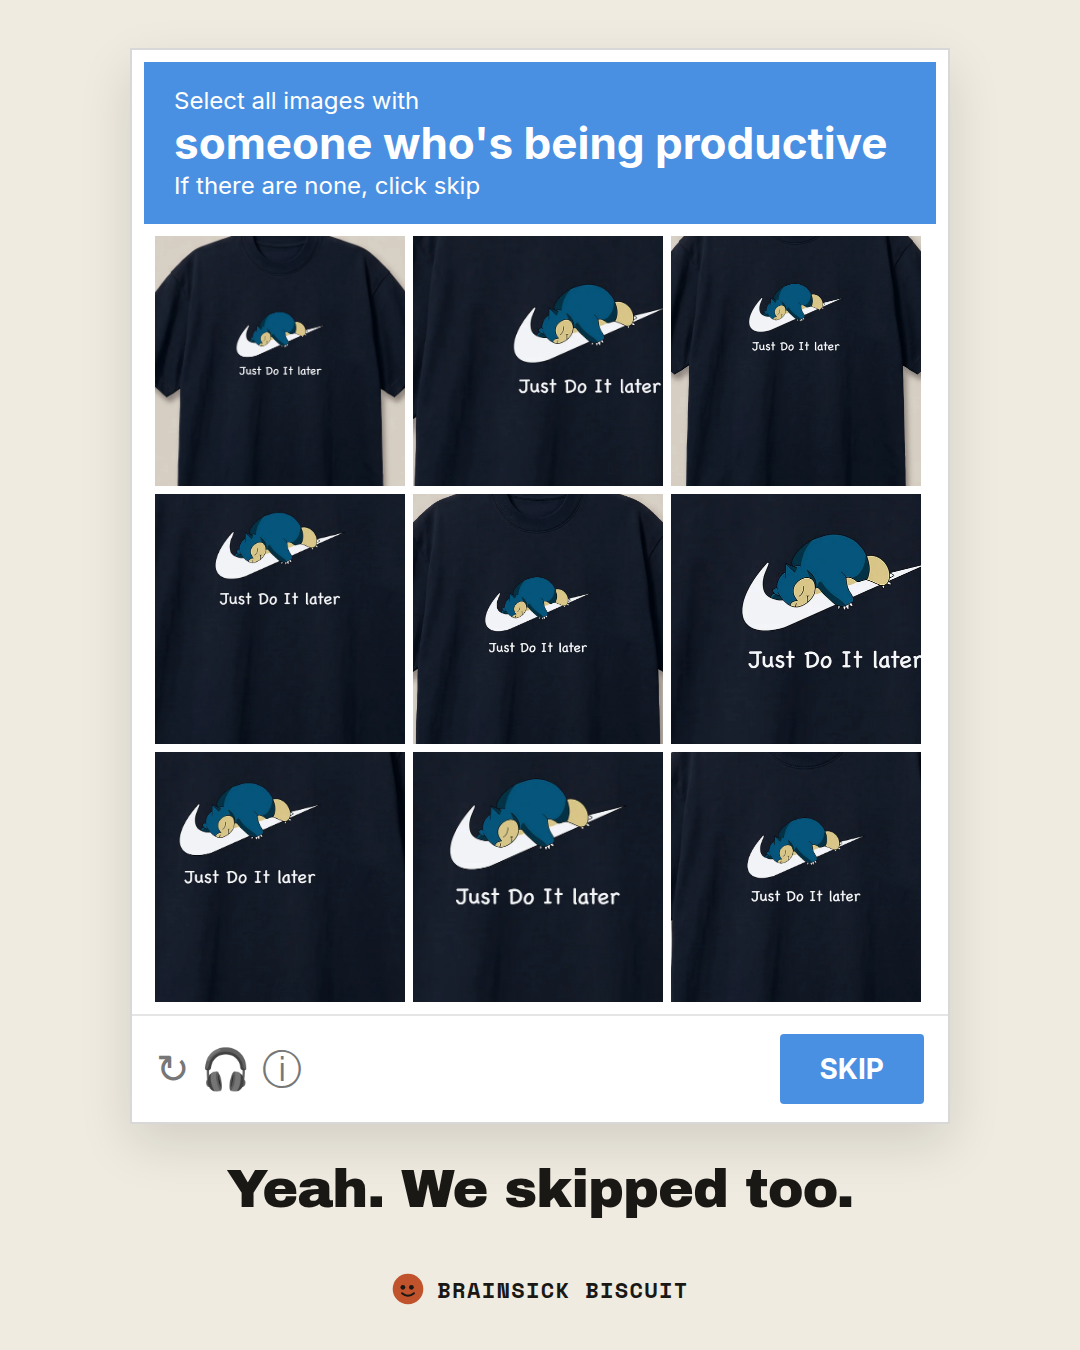
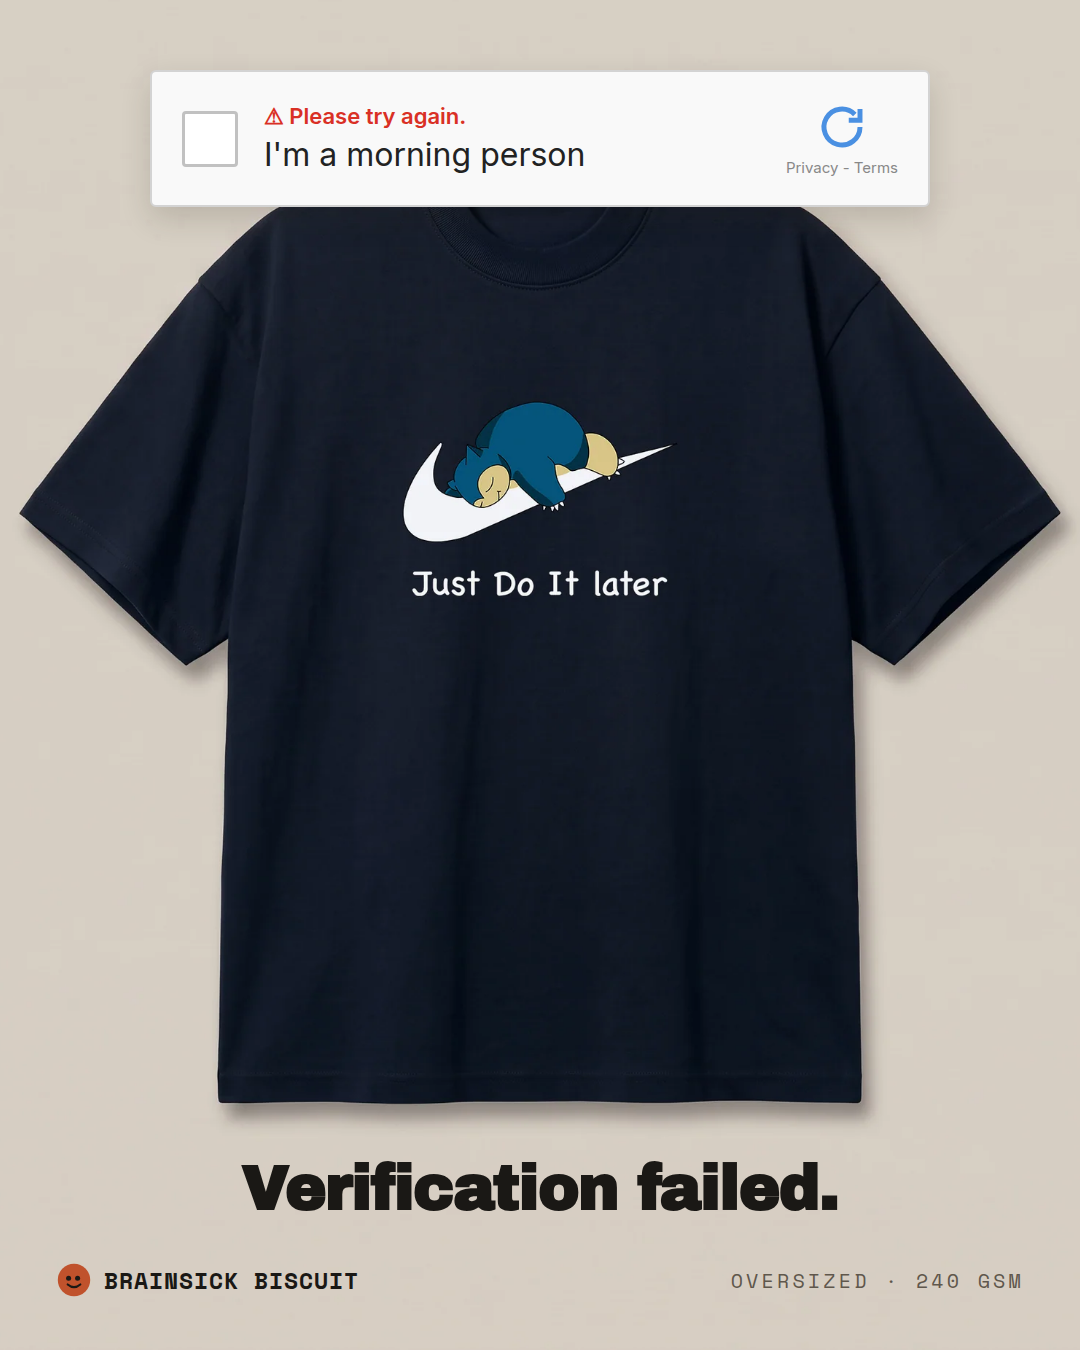
Rework new templates so the tee stays in focus
Replace lock screen and full-screen chat/captcha/dating layouts with tee-first versions: full uncovered tee, one small UI element above it, headline below. Add battery alert template.

Claude-Session: https://claude.ai/code/session_01WD2CyBmECwUA2EiUd3ooRo

diff --git a/meta-ads/template/gen3.py b/meta-ads/template/gen3.py
@@ -1,0 +1,110 @@
+"""Tee-first templates: the full tee stays large and uncovered; one small UI joke sits above it.
+
+Widgets: chat, captcha, battery, dating. Run: node render.js $(python3 gen3.py)
+"""
+from gen import TEES, LOGO, HEAD
+
+COPY = {
+    'courage': dict(
+        chat=dict(who='Manager', them='can you hop on a quick call?', me=None, headline='Every Monday, 9:01 AM.'),
+        captcha=dict(label="I'm not scared of Monday", headline='Verification failed.'),
+        battery=dict(title='Social Battery Low', body='5% remaining. Cancel all plans?', a='Dismiss', b='Cancel Plans',
+                     headline='Scared, but fashionable.'),
+        dating=dict(prompt='My most irrational fear', answer='“Can we talk?” with no context.', headline='Swipe right on fear.'),
+    ),
+    'snorlax': dict(
+        chat=dict(who='Mom', them='beta gym gaya aaj?', me='on my way 🏃', headline='(He was not on his way.)'),
+        captcha=dict(label="I'm a morning person", headline='Verification failed.'),
+        battery=dict(title='Motivation Low', body='2% remaining. Take a nap?', a='Later', b='Nap',
+                     headline='Just do it later.'),
+        dating=dict(prompt='My love language', answer='Cancelling plans so we can both nap.', headline='Swipe right. Eventually.'),
+    ),
+    'anxiety': dict(
+        chat=dict(who='Boss', them='we need to talk tomorrow', me=None, headline='Same-day anxiety.'),
+        captcha=dict(label="I'm totally calm", headline='Verification failed.'),
+        battery=dict(title='Peace of Mind Low', body='1% remaining. Overthink instead?', a='Not Now', b='Overthink',
+                     headline='Delivered daily.'),
+        dating=dict(prompt='I go crazy for', answer='Rereading a text 14 times before sending.', headline='Swipe right. Then panic.'),
+    ),
+}
+
+
+def frame(t, widget_css, widget_html, headline):
+    return HEAD + f'''
+.ad{{width:1080px;height:1350px;background:{t['bg']}}}
+.bg{{position:absolute;inset:0;background:url({t['img']}) 50% 100%/108% no-repeat}}
+.w{{position:absolute;left:150px;right:150px;top:70px;font-family:Inter,sans-serif}}
+{widget_css}
+h1{{position:absolute;left:56px;right:56px;bottom:130px;text-align:center;font-family:var(--display);color:var(--ink);font-size:62px;line-height:1.02;letter-spacing:-.02em}}
+.foot{{position:absolute;left:56px;right:56px;bottom:52px;display:flex;justify-content:space-between;align-items:center}}
+.brand{{display:flex;align-items:center;gap:12px;font-family:var(--mono);font-weight:700;font-size:23px;letter-spacing:.04em;color:var(--ink)}}
+.meta{{font-family:var(--mono);font-size:20px;letter-spacing:.16em;color:#5f574c}}
+</style></head><body><div class="ad"><div class="bg"></div>
+<div class="w">{widget_html}</div>
+<h1>{headline}</h1>
+<div class="foot"><div class="brand">{LOGO.format(s=36)} BRAINSICK BISCUIT</div><div class="meta">OVERSIZED &#183; 240 GSM</div></div>
+</div></body></html>'''
+
+
+def chat(t, c):
+    me = (f'<div class="me">{c["me"]}</div>' if c['me']
+          else '<div class="me dots"><i></i><i></i><i></i></div>')
+    css = '''.w{display:flex;flex-direction:column;gap:12px}
+.them{align-self:flex-start;background:#fff;border-radius:28px 28px 28px 8px;padding:16px 26px 18px;box-shadow:0 12px 30px rgba(40,30,20,.16);max-width:80%}
+.them b{display:block;font-size:22px;color:var(--accent)}
+.them p{font-size:32px;color:#111}
+.me{align-self:flex-end;background:var(--accent);color:#fff;border-radius:28px 28px 8px 28px;padding:18px 26px;font-size:32px;box-shadow:0 12px 30px rgba(40,30,20,.16)}
+.dots{display:flex;gap:10px;padding:26px 30px}
+.dots i{width:16px;height:16px;border-radius:50%;background:#fff;opacity:.85}
+.dots i:nth-child(2){opacity:.6}.dots i:nth-child(3){opacity:.35}'''
+    return frame(t, css, f'<div class="them"><b>{c["who"]}</b><p>{c["them"]}</p></div>{me}', c['headline'])
+
+
+def captcha(t, c):
+    css = '''.cap{background:#F9F9F9;border:2px solid #D3D3D3;border-radius:6px;box-shadow:0 12px 30px rgba(40,30,20,.16);display:flex;align-items:center;gap:26px;padding:28px 30px}
+.box{width:56px;height:56px;border:3px solid #C1C1C1;border-radius:4px;background:#fff;flex:0 0 auto}
+.cap span{flex:1;font-size:32px;color:#222}
+.rc{text-align:center;font-size:15px;color:#888;flex:0 0 auto}
+.rc svg{display:block;margin:0 auto 4px}
+.err{font-size:22px;color:#D93025;font-weight:600;margin-bottom:6px}
+.cap .l{flex:1}
+.cap .l span{display:block}'''
+    ic = ('<svg width="54" height="54" viewBox="0 0 24 24" fill="none" stroke="#4A90E2" stroke-width="2.2">'
+          '<path d="M20 12a8 8 0 1 1-2.3-5.6"/><path d="M20 4v5h-5"/></svg>')
+    return frame(t, css, f'<div class="cap"><div class="box"></div><div class="l"><div class="err">&#9888; Please try again.</div><span>{c["label"]}</span></div><div class="rc">{ic}Privacy - Terms</div></div>', c['headline'])
+
+
+def battery(t, c):
+    css = '''.w{left:220px;right:220px}
+.al{background:rgba(242,240,236,.97);border-radius:30px;overflow:hidden;box-shadow:0 16px 40px rgba(40,30,20,.2);text-align:center}
+.al .tp{padding:28px 30px 24px}
+.bat{display:inline-flex;align-items:center;gap:4px;margin-bottom:10px}
+.bat .b{width:64px;height:30px;border:3px solid #111;border-radius:8px;padding:3px}
+.bat .b i{display:block;width:12%;height:100%;background:#E5483B;border-radius:3px}
+.bat .n{width:5px;height:12px;background:#111;border-radius:0 3px 3px 0}
+.al b{display:block;font-size:31px;color:#111}
+.al p{font-size:25px;color:#333;margin-top:6px}
+.bt{display:flex;border-top:1.5px solid #cfcac2}
+.bt div{flex:1;padding:18px;font-size:28px;color:#2F7BF5}
+.bt div+div{border-left:1.5px solid #cfcac2;font-weight:700}'''
+    return frame(t, css, f'<div class="al"><div class="tp"><div class="bat"><div class="b"><i></i></div><div class="n"></div></div>'
+                         f'<b>{c["title"]}</b><p>{c["body"]}</p></div><div class="bt"><div>{c["a"]}</div><div>{c["b"]}</div></div></div>',
+                 c['headline'])
+
+
+def dating(t, c):
+    css = '''.pr{position:relative;background:#fff;border-radius:26px;padding:26px 34px 30px;box-shadow:0 14px 36px rgba(40,30,20,.18)}
+.pr small{font-size:24px;font-weight:600;color:#444}
+.pr p{font-family:Georgia,serif;font-size:40px;line-height:1.15;color:#111;margin-top:8px;padding-right:70px}
+.hb{position:absolute;right:20px;bottom:-26px;width:74px;height:74px;border-radius:50%;background:var(--accent);color:#fff;display:flex;align-items:center;justify-content:center;font-size:38px;box-shadow:0 8px 20px rgba(0,0,0,.2)}'''
+    return frame(t, css, f'<div class="pr"><small>{c["prompt"]}</small><p>{c["answer"]}</p><div class="hb">&#9829;</div></div>', c['headline'])
+
+
+if __name__ == '__main__':
+    names = []
+    for key, t in TEES.items():
+        for kind, fn in (('chat', chat), ('captcha', captcha), ('battery', battery), ('dating', dating)):
+            name = f'final-{key}-{kind}'
+            open(name + '.html', 'w').write(fn(t, COPY[key][kind]))
+            names.append(f'{name}:1080:1350')
+    print(' '.join(names))

diff --git a/meta-ads/template/README.md b/meta-ads/template/README.md
@@ -1,6 +1,6 @@
 # Brainsick ad templates
 
-4:5 (1080×1350) Meta ad layouts. `gen.py`: notification, post, them-vs-us split. `gen2.py`: lock screen, captcha, dating app, group chat (copy per tee in its `EXTRA`).
+4:5 (1080×1350) Meta ad layouts. `gen.py`: notification, post, them-vs-us split. `gen3.py`: chat, captcha, battery alert, dating prompt, all tee-first (copy per tee in its `COPY`).
 
 ## Add a new tee
 1. Put the product photo (4:5, plain background) in this folder.
@@ -8,6 +8,6 @@
 3. Render:
    ```sh
    npm i playwright-core
-   node render.js $(python3 gen.py) $(python3 gen2.py)
+   node render.js $(python3 gen.py) $(python3 gen3.py)
    ```
    PNGs are written next to the HTML files as `final-<tee>-<layout>.png`.
